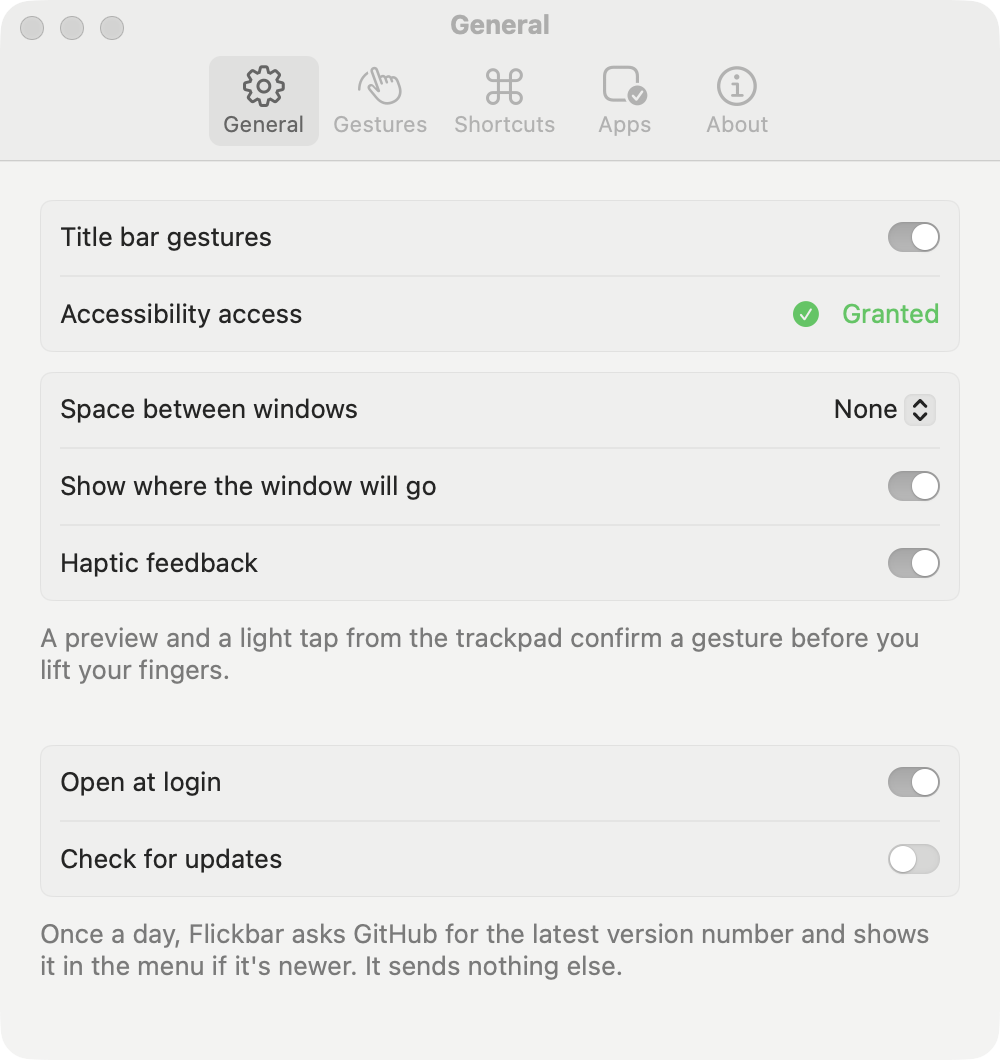
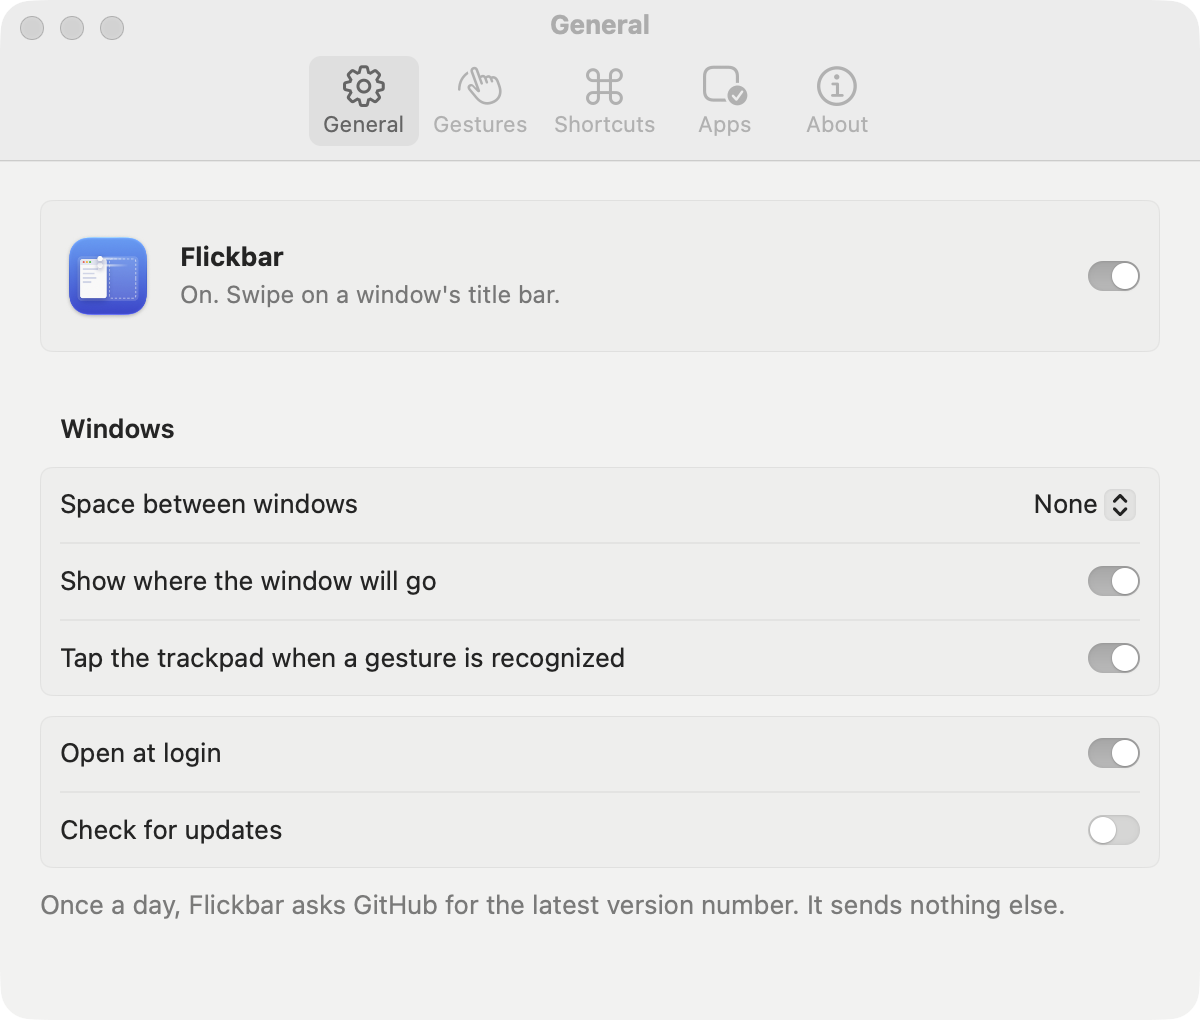
Redesign Settings: gesture tiles with layout pictures, a status header and grouped shortcuts

diff --git a/Sources/Flickbar/SettingsView.swift b/Sources/Flickbar/SettingsView.swift
@@ -20,7 +20,7 @@ struct SettingsView: View {
             AboutSettings()
                 .tabItem { Label("About", systemImage: "info.circle") }
         }
-        .frame(width: 500)
+        .frame(width: 600)
     }
 }
 
@@ -35,18 +35,22 @@ private struct GeneralSettings: View {
     var body: some View {
         Form {
             Section {
-                Toggle("Title bar gestures", isOn: $state.isEnabled)
-                    .disabled(!state.isTrusted)
-                LabeledContent("Accessibility access") {
+                HStack(spacing: 12) {
+                    Image(nsImage: NSApp.applicationIconImage).resizable().frame(width: 48, height: 48)
+                    VStack(alignment: .leading, spacing: 2) {
+                        Text("Flickbar").font(.headline)
+                        Text(status).font(.callout).foregroundStyle(.secondary)
+                    }
+                    Spacer()
                     if state.isTrusted {
-                        Label("Granted", systemImage: "checkmark.circle.fill")
-                            .foregroundStyle(.green)
+                        Toggle("Gestures", isOn: $state.isEnabled).toggleStyle(.switch).labelsHidden()
                     } else {
-                        Button("Grant Access…") { state.showWelcome() }
+                        Button("Grant Access…") { state.showWelcome() }.buttonStyle(.borderedProminent)
                     }
                 }
+                .padding(.vertical, 4)
             }
-            Section {
+            Section("Windows") {
                 Picker("Space between windows", selection: $gap) {
                     Text("None").tag(0)
                     Text("Small").tag(6)
@@ -54,31 +58,36 @@ private struct GeneralSettings: View {
                     Text("Large").tag(20)
                 }
                 Toggle("Show where the window will go", isOn: $preview)
-                Toggle("Haptic feedback", isOn: $haptics)
-            } footer: {
-                Text("A preview and a light tap from the trackpad confirm a gesture before you lift your fingers.")
-                    .foregroundStyle(.secondary)
-                    .multilineTextAlignment(.leading)
-                    .frame(maxWidth: .infinity, alignment: .leading)
+                Toggle("Tap the trackpad when a gesture is recognized", isOn: $haptics)
             }
             Section {
                 Toggle("Open at login", isOn: $state.launchAtLogin)
                 Toggle("Check for updates", isOn: $state.checkForUpdates)
             } footer: {
-                Text("Once a day, Flickbar asks GitHub for the latest version number and shows it in the menu if it's newer. It sends nothing else.")
-                    .foregroundStyle(.secondary)
-                    .multilineTextAlignment(.leading)
-                    .frame(maxWidth: .infinity, alignment: .leading)
+                footnote("Once a day, Flickbar asks GitHub for the latest version number. It sends nothing else.")
             }
         }
         .formStyle(.grouped)
-        .frame(height: 450)
+        .frame(height: 430)
     }
+
+    private var status: String {
+        if !state.isTrusted { return "Needs Accessibility access to move windows." }
+        return state.isEnabled ? "On. Swipe on a window's title bar." : "Off."
+    }
+}
+
+private func footnote(_ text: String) -> some View {
+    Text(text)
+        .foregroundStyle(.secondary)
+        .multilineTextAlignment(.leading)
+        .fixedSize(horizontal: false, vertical: true)
+        .frame(maxWidth: .infinity, alignment: .leading)
 }
 
 // MARK: Action names
 
-/// Menu titles for actions, shared by the Gestures and Shortcuts tabs.
+/// Menu titles and pictures for actions, shared by the Gestures and Shortcuts tabs.
 enum ActionNames {
     /// Menu sections: halves and fill, thirds, quarters, window actions, app actions.
     static var groups: [[WindowAction]] {
@@ -88,6 +97,7 @@ enum ActionNames {
          [.minimize, .toggleFullscreen, .close, .nextWindow],
          appActions]
     }
+    static let groupTitles = ["Halves", "Thirds", "Quarters", "Window", "App"]
 
     /// The actions that make sense on a Dock icon, which has an app but no window.
     static var appActions: [WindowAction] { [.appWindows, .hideApp, .quitApp] }
@@ -121,6 +131,57 @@ enum ActionNames {
         case .moveToDisplay: "Move to Another Display"
         }
     }
+
+    /// Symbol for actions that don't put the window somewhere `LayoutGlyph` can draw.
+    static func symbol(_ action: WindowAction?) -> String {
+        switch action {
+        case .minimize: "dock.arrow.down.rectangle"
+        case .toggleFullscreen: "arrow.up.left.and.arrow.down.right"
+        case .close: "xmark"
+        case .nextWindow: "macwindow.on.rectangle"
+        case .appWindows: "square.grid.2x2"
+        case .hideApp: "eye.slash"
+        case .quitApp: "power"
+        case .moveToDisplay(.left): "arrow.left"
+        case .moveToDisplay(.right): "arrow.right"
+        case .moveToDisplay(.up): "arrow.up"
+        case .moveToDisplay(.down): "arrow.down"
+        default: "nosign"
+        }
+    }
+}
+
+/// A small screen showing where an action puts the window, or a symbol for actions that don't move it.
+struct LayoutGlyph: View {
+    let action: WindowAction?
+    var symbol: String?
+    var width: CGFloat = 56
+
+    var body: some View {
+        let height = (width * 0.64).rounded()
+        let corner = width * 0.1
+        ZStack(alignment: .topLeading) {
+            RoundedRectangle(cornerRadius: corner).fill(.quaternary)
+            RoundedRectangle(cornerRadius: corner).strokeBorder(.tertiary, lineWidth: 1)
+            if symbol == nil, case .snap(let target) = action {
+                let inset = width * 0.05
+                let screen = CGRect(x: inset, y: inset, width: width - 2 * inset, height: height - 2 * inset)
+                let r = SnapGeometry.frame(for: target, in: screen, current: screen.insetBy(dx: screen.width * 0.22, dy: screen.height * 0.2),
+                                           gap: width * 0.03)
+                RoundedRectangle(cornerRadius: corner * 0.5)
+                    .fill(Color.accentColor.gradient)
+                    .frame(width: r.width, height: r.height)
+                    .offset(x: r.minX, y: r.minY)
+            } else {
+                Image(systemName: symbol ?? ActionNames.symbol(action))
+                    .font(.system(size: height * 0.42, weight: .semibold))
+                    .foregroundStyle(action == nil && symbol == nil ? AnyShapeStyle(.tertiary) : AnyShapeStyle(.tint))
+                    .frame(width: width, height: height)
+            }
+        }
+        .frame(width: width, height: height)
+        .accessibilityHidden(true)
+    }
 }
 
 // MARK: Gestures
@@ -128,93 +189,109 @@ enum ActionNames {
 private struct GestureSettings: View {
     @Bindable var state: AppState
     @AppStorage("anywhereModifier") private var anywhereModifier = "option"
+    @State private var onDock = false
+
+    private static let titleBarGestures: [(TrackpadGesture, String, String)] = [
+        (.swipeLeft, "Swipe Left", "arrow.left"),
+        (.swipeUp, "Swipe Up", "arrow.up"),
+        (.swipeRight, "Swipe Right", "arrow.right"),
+        (.swipeLeftUp, "Left, Then Up", "arrow.up.left"),
+        (.swipeDown, "Swipe Down", "arrow.down"),
+        (.swipeRightUp, "Right, Then Up", "arrow.up.right"),
+        (.swipeLeftDown, "Left, Then Down", "arrow.down.left"),
+        (.doubleTap, "Double-Tap", "hand.tap"),
+        (.swipeRightDown, "Right, Then Down", "arrow.down.right"),
+        (.pinchIn, "Pinch In", "arrow.down.right.and.arrow.up.left"),
+        (.pinchOut, "Pinch Out", "arrow.up.left.and.arrow.down.right"),
+    ]
+    private static let dockGestures: [(TrackpadGesture, String, String)] = [
+        (.swipeLeft, "Swipe Left", "arrow.left"),
+        (.swipeUp, "Swipe Up", "arrow.up"),
+        (.swipeRight, "Swipe Right", "arrow.right"),
+        (.pinchIn, "Pinch In", "arrow.down.right.and.arrow.up.left"),
+        (.swipeDown, "Swipe Down", "arrow.down"),
+        (.pinchOut, "Pinch Out", "arrow.up.left.and.arrow.down.right"),
+    ]
 
     var body: some View {
-        Form {
-            Section {
-                row(.swipeLeft, "Swipe left", "arrow.left")
-                row(.swipeRight, "Swipe right", "arrow.right")
-                row(.swipeUp, "Swipe up", "arrow.up")
-                row(.swipeDown, "Swipe down", "arrow.down")
-            } header: {
-                Text("Swipe")
-            } footer: {
-                footnote("Repeat a swipe to a half for ⅔ and ⅓, or to fill the screen for the middle third. Swiping down on a snapped window restores its earlier size.")
+        VStack(spacing: 14) {
+            Picker("Where", selection: $onDock) {
+                Text("On a Window's Title Bar").tag(false)
+                Text("On an App's Dock Icon").tag(true)
             }
-            Section("Swipe sideways, then up or down") {
-                row(.swipeLeftUp, "Left and up", "arrow.up.left")
-                row(.swipeRightUp, "Right and up", "arrow.up.right")
-                row(.swipeLeftDown, "Left and down", "arrow.down.left")
-                row(.swipeRightDown, "Right and down", "arrow.down.right")
-            }
-            Section("Tap and pinch") {
-                row(.doubleTap, "Double-tap", "hand.tap")
-                row(.pinchOut, "Pinch out", "arrow.up.left.and.arrow.down.right")
-                row(.pinchIn, "Pinch in", "arrow.down.right.and.arrow.up.left")
-                Toggle(isOn: $state.commandSwipeEnabled) {
-                    label("Move to another display", "Hold ⌘ and swipe toward the display", "display.2")
+            .pickerStyle(.segmented)
+            .labelsHidden()
+            .fixedSize()
+
+            LazyVGrid(columns: Array(repeating: GridItem(.flexible(), spacing: 10), count: 3), spacing: 10) {
+                ForEach(onDock ? Self.dockGestures : Self.titleBarGestures, id: \.0) { gesture, title, symbol in
+                    tile(title, symbol) {
+                        LayoutGlyph(action: ActionMap.action(for: gesture, onDock: onDock, overrides: state.gestureMap))
+                    } detail: {
+                        picker(gesture)
+                    }
+                }
+                if !onDock {
+                    tile("Touch and Hold", "hand.point.up.left") {
+                        LayoutGlyph(action: nil, symbol: "square.grid.3x3")
+                    } detail: {
+                        Text("Pick from a grid").foregroundStyle(.secondary)
+                    }
                 }
             }
-            Section {
-                row(.swipeUp, "Swipe up", "arrow.up", onDock: true)
-                row(.swipeDown, "Swipe down", "arrow.down", onDock: true)
-                row(.swipeLeft, "Swipe left", "arrow.left", onDock: true)
-                row(.swipeRight, "Swipe right", "arrow.right", onDock: true)
-                row(.pinchIn, "Pinch in", "arrow.down.right.and.arrow.up.left", onDock: true)
-                row(.pinchOut, "Pinch out", "arrow.up.left.and.arrow.down.right", onDock: true)
-            } header: {
-                Text("On an app's Dock icon")
-            } footer: {
-                footnote("Works on apps that are running.")
-            }
-            Section {
-                Picker("Use gestures anywhere in a window while holding", selection: $anywhereModifier) {
-                    Text("⌥ Option").tag("option")
-                    Text("⌃ Control").tag("control")
-                    Text("Off").tag("off")
+
+            if onDock {
+                footnote("Works on the icons of apps that are running.")
+            } else {
+                VStack(spacing: 8) {
+                    Toggle("Hold ⌘ and swipe to move a window to another display", isOn: $state.commandSwipeEnabled)
+                        .frame(maxWidth: .infinity, alignment: .leading)
+                    Picker("Gesture anywhere in a window while holding", selection: $anywhereModifier) {
+                        Text("⌥ Option").tag("option")
+                        Text("⌃ Control").tag("control")
+                        Text("Off").tag("off")
+                    }
+                    .fixedSize()
+                    .frame(maxWidth: .infinity, alignment: .leading)
                 }
-            } footer: {
-                footnote("Otherwise gestures work with the pointer over a window's title bar. Press Esc before lifting your fingers to cancel.")
             }
-            Section {
+            Spacer(minLength: 0)
+            HStack(alignment: .firstTextBaseline) {
+                footnote(onDock ? "" : "Repeat a swipe to a half or Fill Screen to cycle through thirds. Press Esc before lifting your fingers to cancel.")
                 Button("Restore Defaults") { state.gestureMap = [:] }
                     .disabled(state.gestureMap.isEmpty)
-                    .frame(maxWidth: .infinity, alignment: .trailing)
             }
         }
-        .formStyle(.grouped)
-        .frame(height: 640)
+        .padding(20)
+        // Dock icons have fewer gestures; fit the window to them.
+        .frame(height: onDock ? 440 : 660)
     }
 
-    private func row(_ gesture: TrackpadGesture, _ title: String, _ symbol: String, onDock: Bool = false) -> some View {
-        Picker(selection: state.actionBinding(gesture, onDock: onDock)) {
+    private func tile(_ title: String, _ symbol: String, @ViewBuilder glyph: () -> some View,
+                      @ViewBuilder detail: () -> some View) -> some View {
+        VStack(spacing: 6) {
+            glyph()
+            Label(title, systemImage: symbol).font(.callout.weight(.medium)).lineLimit(1).frame(height: 20)
+            detail().frame(height: 22)
+        }
+        .padding(.vertical, 12)
+        .padding(.horizontal, 6)
+        .frame(maxWidth: .infinity)
+        .background(Color(nsColor: .controlBackgroundColor), in: RoundedRectangle(cornerRadius: 10))
+        .overlay(RoundedRectangle(cornerRadius: 10).strokeBorder(.separator))
+    }
+
+    private func picker(_ gesture: TrackpadGesture) -> some View {
+        Picker("Action", selection: state.actionBinding(gesture, onDock: onDock)) {
             ForEach(onDock ? [[.nextWindow] + ActionNames.appActions] : ActionNames.groups, id: \.self) { group in
                 ForEach(group, id: \.id) { Text(ActionNames.title($0)).tag($0.id) }
                 Divider()
             }
             Text("Nothing").tag(ActionMap.off)
-        } label: {
-            label(title, nil, symbol)
         }
-    }
-
-    private func label(_ title: String, _ detail: String?, _ symbol: String) -> some View {
-        Label {
-            VStack(alignment: .leading, spacing: 2) {
-                Text(title)
-                if let detail { Text(detail).font(.callout).foregroundStyle(.secondary) }
-            }
-        } icon: {
-            // Fixed width so titles line up whatever the symbol's shape.
-            Image(systemName: symbol).foregroundStyle(.tint).frame(width: 24)
-        }
-    }
-
-    private func footnote(_ text: String) -> some View {
-        Text(text)
-            .foregroundStyle(.secondary)
-            .multilineTextAlignment(.leading)
-            .frame(maxWidth: .infinity, alignment: .leading)
+        .labelsHidden()
+        .controlSize(.small)
+        .frame(maxWidth: 160)
     }
 }
 
@@ -223,25 +300,31 @@ private struct GestureSettings: View {
 private struct ShortcutSettings: View {
     var body: some View {
         Form {
-            ForEach(ActionNames.groups, id: \.self) { group in
-                Section { recorders(group) }
+            ForEach(Array(zip(ActionNames.groupTitles, ActionNames.groups)), id: \.0) { title, group in
+                Section(title) { recorders(group) }
             }
             Section {
                 recorders(Shortcuts.displayMoves)
+            } header: {
+                Text("Displays")
             } footer: {
-                Text("Shortcuts act on the frontmost window. Repeat a half or Fill Screen shortcut to cycle through thirds.")
-                    .foregroundStyle(.secondary)
-                    .multilineTextAlignment(.leading)
-                    .frame(maxWidth: .infinity, alignment: .leading)
+                footnote("Shortcuts act on the frontmost window. Repeat a half or Fill Screen shortcut to cycle through thirds.")
             }
         }
         .formStyle(.grouped)
-        .frame(height: 640)
+        .frame(height: 660)
     }
 
     private func recorders(_ actions: [WindowAction]) -> some View {
         ForEach(actions, id: \.id) { action in
-            KeyboardShortcuts.Recorder(LocalizedStringKey(ActionNames.title(action)), name: Shortcuts.name(action))
+            LabeledContent {
+                KeyboardShortcuts.Recorder(for: Shortcuts.name(action))
+            } label: {
+                HStack(spacing: 10) {
+                    LayoutGlyph(action: action, width: 30)
+                    Text(ActionNames.title(action))
+                }
+            }
         }
     }
 }
